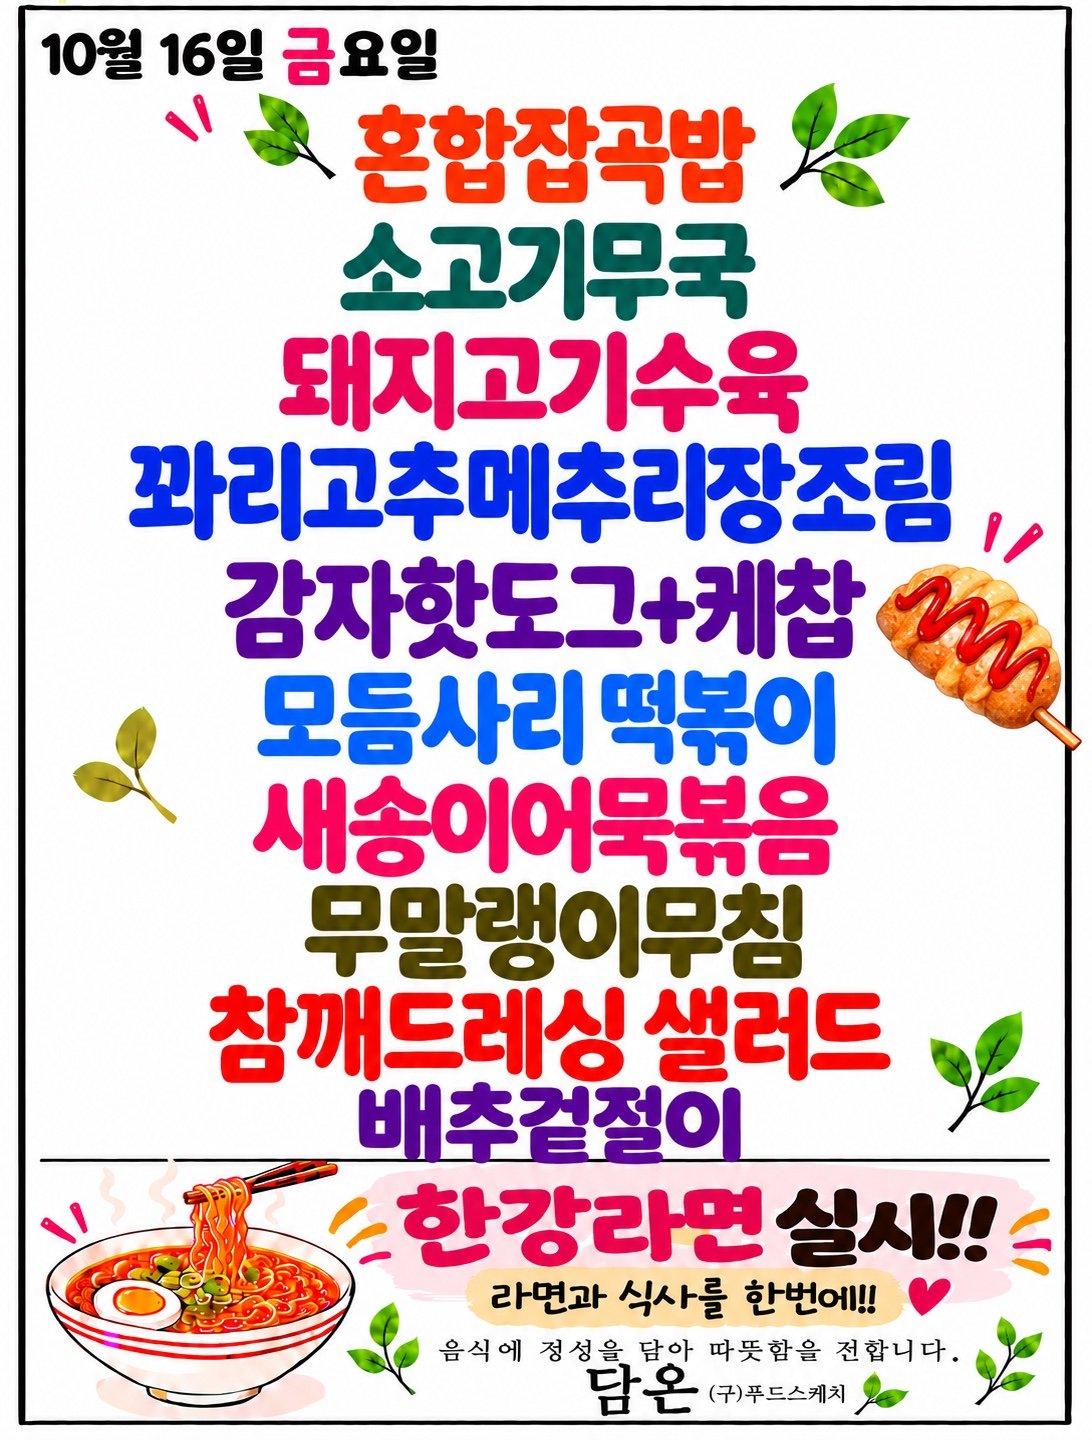
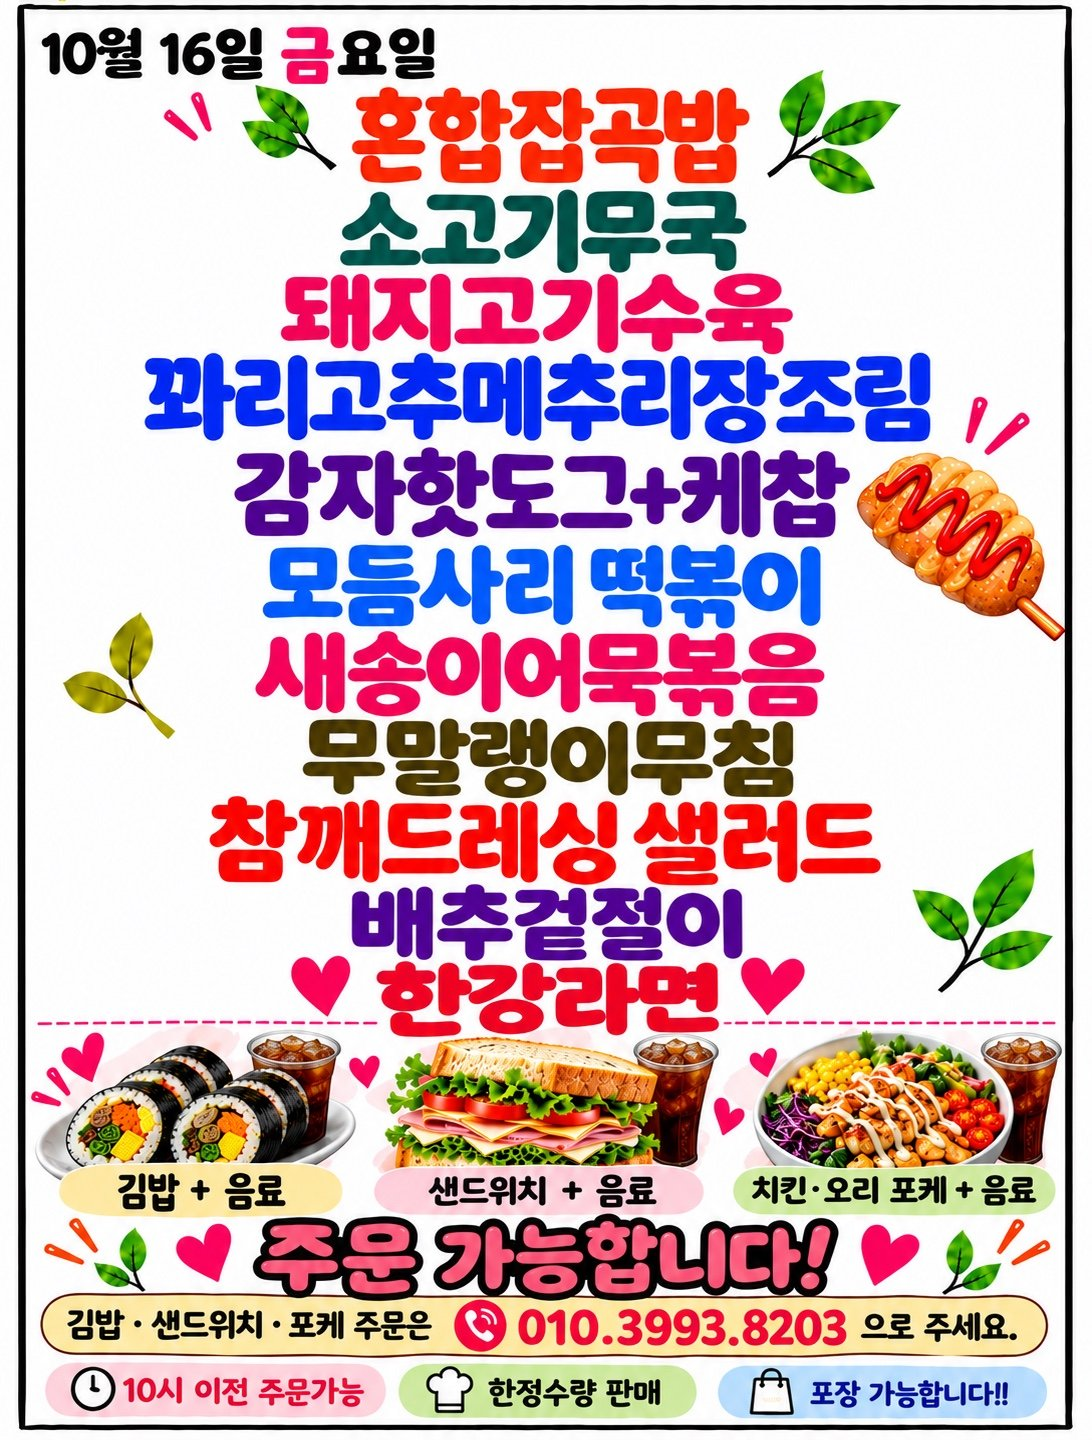
Update menu board assets

diff --git a/guro-menu/index.html b/guro-menu/index.html
@@ -32,7 +32,7 @@
   </header>
   <section class="meta">
     <div><small>기준 날짜</small><strong>2026년 10월 16일 금요일</strong></div>
-    <div><small>최종 갱신</small><strong>2026-10-16 09:03:53</strong></div>
+    <div><small>최종 갱신</small><strong>2026-10-16 09:13:28</strong></div>
     <div><small>등록 식당</small><strong>5개</strong></div>
   </section>
   <div class="notice">공개 카카오 채널의 메뉴 이미지를 자동 수집하고 OCR로 정리합니다. 텍스트에 오타가 있을 수 있으니 식단 이미지를 함께 확인해 주세요.</div>
@@ -104,7 +104,7 @@
         </div>
         <img class="menu-image" src="./images/yoon-chef-kolon.png" alt="윤쉐프 코오롱 식단 이미지" loading="lazy">
         <p class="message">최신 공개 식단 이미지의 텍스트입니다. 날짜는 원본 이미지를 확인해 주세요.</p>
-        <ul><li>순두부찌개</li><li>마늘보쌈</li><li>칠리만두강정</li><li>지마구튀김</li><li>비빔막국수</li><li>상주쌈&amp;쌈장</li><li>잡곡밥/백미밥</li><li>그린샐러드&amp;드레싱</li><li>셀프라면&amp;토스트</li><li>탄산음료/직접담근식혜</li></ul>
+        <ul><li>맑은 6 lS</li><li>사모사튀김&amp;조관장</li><li>마파두부뭔밥</li><li>모듬채소걷절이</li><li>잡곡밥/백미밥</li><li>결프라면&amp;토스트</li><li>탄산음료/오렌지주스</li></ul>
       </article>
   </section>
   <section class="seo" aria-label="검색 정보">한신IT타워 구내식당 자연푸드 구내식당 더이츠푸드 벽산더이룸 윤쉐프 코오롱 한신IT타워 벽산디지털밸리7차 대륭포스트타워1차 벽산디지털밸리1차 코오롱싸이언스밸리1차 서울 구로구 디지털로 272 한신IT타워 지하1층 서울 구로구 디지털로33길 50 벽산디지털밸리7차 지하1층 서울 구로구 디지털로 288 대륭포스트타워1차 지하1층 서울 구로구 디지털로27길 24 벽산디지털밸리1차 지하1층 서울 구로구 디지털로34길 43 코오롱싸이언스밸리1차 지하1층</section>

diff --git a/menu-today/index.html b/menu-today/index.html
@@ -209,7 +209,7 @@
 
     <section class="meta-bar">
       <div class="meta-card"><div class="meta-label">기준 날짜</div><div class="meta-value">2026년 10월 16일 금요일</div></div>
-      <div class="meta-card"><div class="meta-label">최종 가져온 시간</div><div class="meta-value">2026-10-16 09:03:38</div></div>
+      <div class="meta-card"><div class="meta-label">최종 가져온 시간</div><div class="meta-value">2026-10-16 09:13:13</div></div>
       <div class="meta-card"><div class="meta-label">확인 완료</div><div class="meta-value">9개 식당</div></div>
       <div class="meta-card"><div class="meta-label">준비중</div><div class="meta-value">3개 채널</div></div>
     </section>
@@ -295,7 +295,7 @@
             <div class="sub">에이스테크노타워10차</div>
           </div>
         </div>
-        <div class="menu-inline-image"><img src="./images/thefoodsketch.png" alt="더푸드스케치 식단 이미지"></div><ul><li>소고기무국</li><li>돼지고기수육</li><li>파리고추메추리장조림</li><li>&lt; 모듬사리 떡볶이 y</li><li>새송이어묵볶음</li><li>` 호 혼합잡곡밥 fe</li><li>봐리고추메주리</li></ul>
+        <div class="menu-inline-image"><img src="./images/thefoodsketch.png" alt="더푸드스케치 식단 이미지"></div><ul><li>소고기무국</li><li>파리고추메추리장조링</li><li>감자핫도그+케참 Hy</li><li>모등사리떡복이 “S</li><li>무말랭이무침</li><li>배추겉절이 BE</li><li>ㆍ 김밥 + 음료 샌드위치 + 음료 치킨ㆍ오리 포케 + 음료</li><li>추사 그 으니다고</li><li>김밥ㆍ샌드위치 ㆍ포케 주문은 으로 주세요</li></ul>
       </article>
 
       <article class="restaurant-card">
